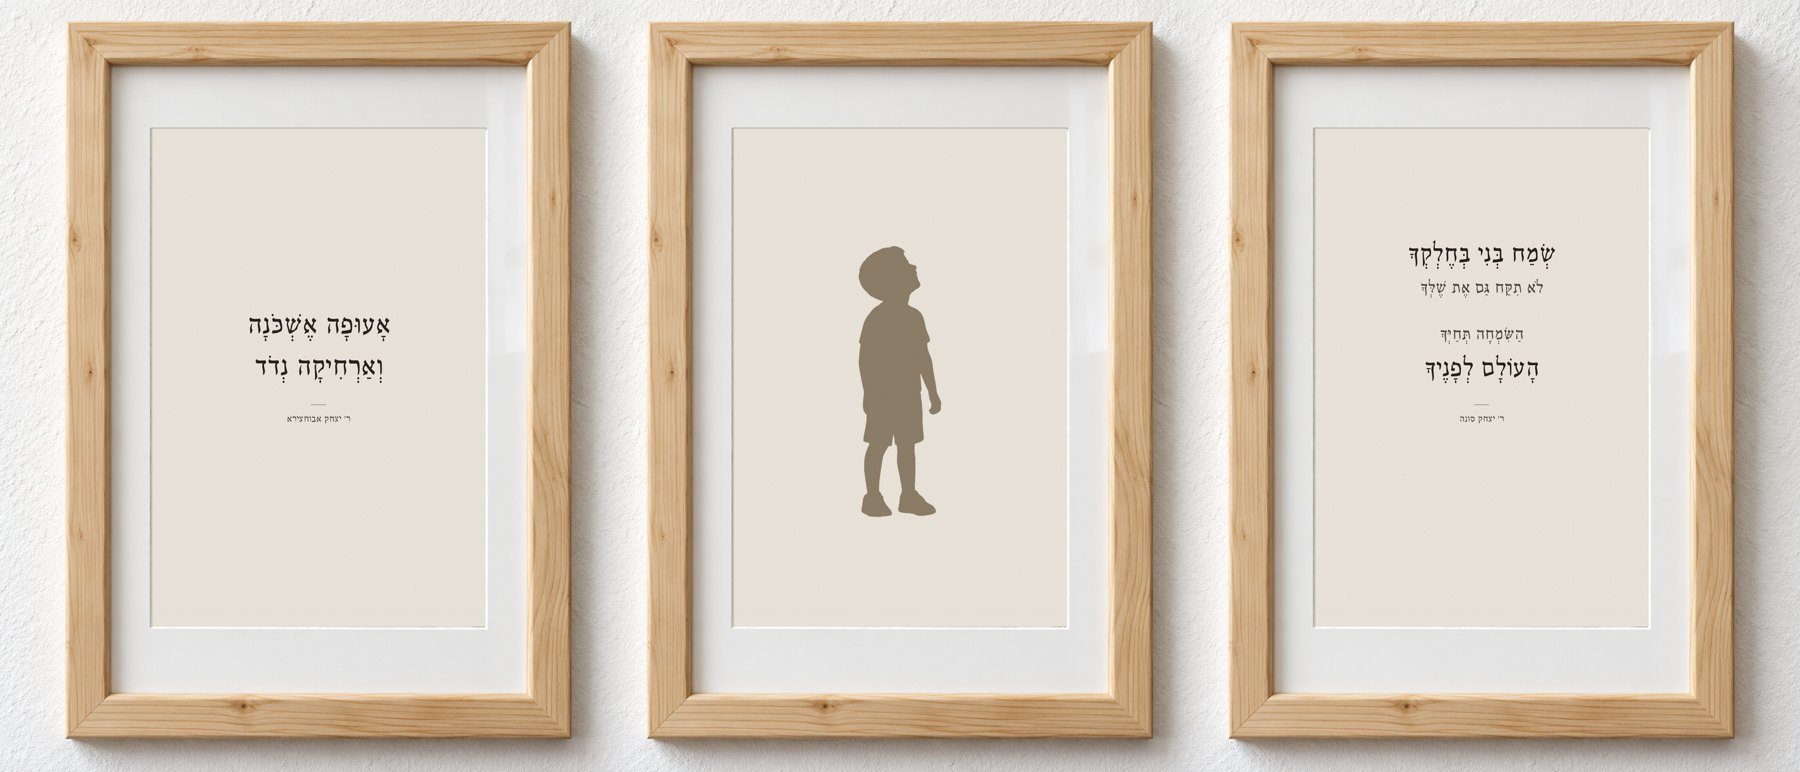
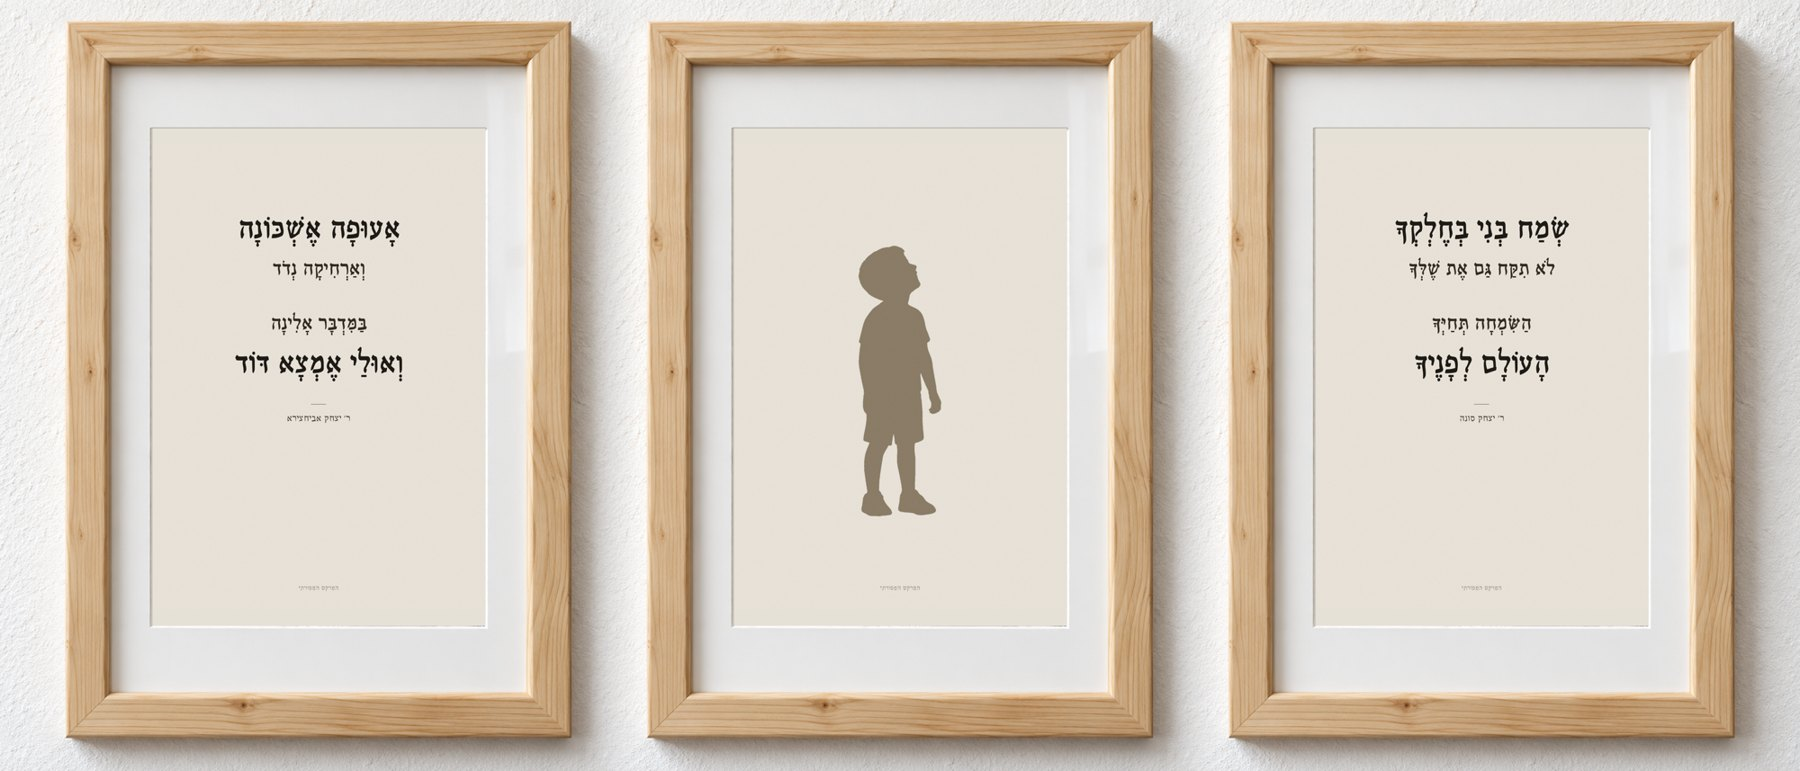
Shop: lead with 2-3 prints, free shipping from 2, full Aoufa stanza, remove black frame
Claude-Session: https://claude.ai/code/session_01QSLAfrMeBEq27mRa4tKpiz

diff --git a/shop/index.html b/shop/index.html
@@ -56,8 +56,11 @@ nav a:hover{color:var(--ink)}
 
 /* מבצע */
 .deal{background:var(--wall);border-block:1px solid var(--line)}
-.deal .wrap{display:flex;flex-wrap:wrap;gap:12px 40px;justify-content:center;padding-block:18px;font-size:16px}
-.deal b{font-family:var(--display);font-size:22px;font-weight:500;margin-inline-start:6px}
+.deal .wrap{display:grid;grid-template-columns:repeat(3,1fr);gap:12px;padding-block:18px 10px;font-size:15px;max-width:640px;margin-inline:auto}
+.deal .all{text-align:center;font-size:13px;opacity:.75;padding-bottom:16px}
+.deal .d{display:flex;flex-direction:column;align-items:center;gap:2px;text-align:center}
+.deal b{font-family:var(--display);font-size:24px;font-weight:500}
+.deal .ds{font-size:13px;opacity:.75}
 
 /* גלריה */
 .sec{padding-block:64px}
@@ -177,6 +180,7 @@ footer .wrap{display:flex;justify-content:space-between;gap:16px;flex-wrap:wrap}
   .brand{font-size:22px}
 }
 @media (prefers-reduced-motion:reduce){.item img{transition:none}}
+.pairhint{margin:12px 0 0;font-size:15px;opacity:.8}.pairhint a{color:inherit;font-weight:700}
 </style>
 </head>
 <body>
@@ -195,7 +199,7 @@ footer .wrap{display:flex;justify-content:space-between;gap:16px;flex-wrap:wrap}
 
 <footer><div class="wrap">
   <span>המרקט המסורתי · מילים שגדלנו עליהן · מבית זרמומיה</span>
-  <span>משלוח עם שליח עד הבית · תשלום מאובטח בפיימי</span>
+  <span>משלוח חינם מ־2 תמונות · תשלום מאובטח בפיימי</span>
 </div></footer>
 
 <script>
@@ -203,24 +207,23 @@ const PRICE_FRAMED=150, PAIR=279, TRIPLE=399, POSTER=39, SHIP=39; // מחיר פ
 const COLORS=[
   {id:'natural',name:'עץ טבעי',hex:'#C9A878'},
   {id:'white',name:'לבן',hex:'#F4F1EA'},
-  {id:'honey',name:'דבש',hex:'#A8723A'},
-  {id:'black',name:'שחור',hex:'#1E1C1A'}
+  {id:'honey',name:'חום כהה',hex:'#7A5434'}
 ];
 const P=[
-  {id:'p1',l:'א',name:'אָעוּפָה אֶשְׁכֹּנָה',plain:'אעופה אשכונה',sub:'עם להקת הציפורים',by:'מתוך פיוט של ר׳ יצחק אבוחצירא',
+  {id:'p1',l:'א',name:'אָעוּפָה אֶשְׁכּוֹנָה',plain:'אעופה אשכונה',sub:'עם להקת הציפורים',by:'מתוך פיוט של ר׳ יצחק אביחצירא',
    text:'שורה מתוך הפיוט, עם להקת ציפורים שעולה אל הכותרת. הדפס בגווני נייר חמים שמתאים לסלון, למסדרון ולחדר עבודה.'},
-  {id:'p2',l:'ב',name:'אָעוּפָה אֶשְׁכֹּנָה',plain:'אעופה אשכונה · מינימליסטי',sub:'גרסה מינימליסטית',by:'מתוך פיוט של ר׳ יצחק אבוחצירא',
+  {id:'p2',l:'ב',name:'אָעוּפָה אֶשְׁכּוֹנָה',plain:'אעופה אשכונה · מינימליסטי',sub:'גרסה מינימליסטית',by:'מתוך פיוט של ר׳ יצחק אביחצירא',
    text:'אותה שורה בלי איור. טיפוגרפיה בכתר, הרבה אוויר סביב. משתלב יפה בזוג עם הגרסה עם הציפורים.'},
   {id:'p3',l:'ג',name:'שְׂמַח בְּנִי בְּחֶלְקְךָ',plain:'שמח בני בחלקך',sub:'ר׳ יצחק סונה',by:'מילים: ר׳ יצחק סונה',
    text:'חמש שורות על שמחה בחלק ועל העולם שפתוח לפניך. מתנה טובה לבר מצווה, לחדר של ילד או לבית חדש.'},
-  {id:'p4',l:'ד',name:'חֲשׂוֹף זְרוֹעֲךָ',plain:'חשוף זרועך',sub:'לקבץ פזורים · מפת ישראל',by:'מתוך פיוט של ר׳ יצחק אבוחצירא',
+  {id:'p4',l:'ד',name:'חֲשׂוֹף זְרוֹעֲךָ',plain:'חשוף זרועך',sub:'לקבץ פזורים · מפת ישראל',by:'מתוך פיוט של ר׳ יצחק אביחצירא',
    text:'שורות על קיבוץ הפזורים, על רקע מפה עדינה של הארץ. מתאים לבית שהגיע אליו מכל מקום.'},
   {id:'p5',l:'ה',name:'הָעוֹלָם לְפָנֶיךָ',plain:'העולם לפניך',sub:'צללית ילד מביט למעלה',by:'מילים: ר׳ יצחק סונה',
    text:'ילד מרים את הראש אל המילים מתוך "שמח בני". מתנה לבר מצווה, לחדר ילדים או לכל מי שמתחיל דרך.',s:'joy'},
   {id:'p6',l:'ו',name:'בּוֹאִי כַלָּה',plain:'בואי כלה',sub:'לכלה · מתוך לכה דודי',by:'ר׳ שלמה הלוי אלקבץ',
    text:'"בואי כלה, בואי כלה", ומתחת "בואי בשלום עטרת בעלה". הפיוט ששרים כל ליל שבת, לכלה ביום שלה. בזוג עם ישמח חתני.',s:'joy',def:'white'},
   {id:'p7',l:'ז',name:'יִשְׂמַח חֲתָנִי',plain:'ישמח חתני',sub:'לחתן ולבר מצווה',by:'פיוט עממי',
-   text:'"ישמח חתני בקהל אמוני, ישא ברכה מאת ה׳". שרים אותו לחתן מתחת לחופה ולנער בבר המצווה. בזוג עם בואי כלה.',s:'joy',def:'black'}
+   text:'"ישמח חתני בקהל אמוני, ישא ברכה מאת ה׳". שרים אותו לחתן מתחת לחופה ולנער בבר המצווה. בזוג עם בואי כלה.',s:'joy',def:'honey'}
 ];
 const img=(id,c)=>`img/${id}-${c}.jpg`;
 // צבע + צבע
@@ -242,7 +245,7 @@ function totals(){
   const nP=cart.filter(x=>x.kind==='poster').reduce((a,b)=>a+b.q,0);
   const sets=cart.filter(x=>x.kind==='set'||x.kind==='trip'), setSum=sets.reduce((a,b)=>a+(b.kind==='trip'?TRIPLE:SET_PRICE[b.size])*b.q,0);
   const full=nF*PRICE_FRAMED+nP*POSTER+setSum, fr=framedTotal(nF);
-  const ship=(nF>0||sets.length)?SHIP:0, sub=fr+nP*POSTER+setSum;
+  const ship=(nF===1&&!sets.length)?SHIP:0, sub=fr+nP*POSTER+setSum; // משלוח חינם מ־2 תמונות או בסט
   return {nF,nP,full,save:nF*PRICE_FRAMED-fr,sub,ship,total:sub+ship};
 }
 function toast(t){const d=document.createElement('div');d.className='toast';d.textContent=t;d.setAttribute('role','status');document.body.appendChild(d);setTimeout(()=>d.remove(),2200)}
@@ -255,16 +258,16 @@ function shop(){
     <div>
       <h1>פיוטים ושירים של הבית, ממוסגרים לקיר</h1>
       <p>שורות מהפיוטים והשירים שליוו את הבתים שלנו, בעיצוב נקי ובאות עברית מסורתית. כל הדפס מגיע ממוסגר עם פספרטו, מוכן לתלייה.</p>
-      <a class="cta" href="#prints">לכל ההדפסים</a>
-      <div class="facts"><span>מסגרת 20×30 ס״מ</span><span>הדפס 15×21 בפספרטו</span><span>שליח עד הבית</span></div>
+      <a class="cta" href="#prints">בוחרים 2 או 3 הדפסים</a>
+      <div class="facts"><span>זכוכית ופספרטו</span><span>מסגרת 20×30 ס״מ</span><span>משלוח חינם מ־2 תמונות</span></div>
     </div>
     <a href="#trip"><img src="img/trip.jpg" alt="טריפטיך ממוסגר: אעופה אשכונה, צללית ילד ושמח בני" style="aspect-ratio:auto"></a>
   </section>
   <div class="deal"><div class="wrap">
-    <span>הדפס ממוסגר <b>${nis(PRICE_FRAMED)}</b></span>
-    <span>זוג <b>${nis(PAIR)}</b></span>
-    <span>שלישייה <b>${nis(TRIPLE)}</b></span>
-  </div></div>
+    <div class="d"><span class="dn">הדפס 1</span><b>${nis(PRICE_FRAMED)}</b><span class="ds">ועוד משלוח</span></div>
+    <div class="d"><span class="dn">2 הדפסים</span><b>${nis(PAIR)}</b><span class="ds">משלוח חינם</span></div>
+    <div class="d"><span class="dn">3 הדפסים</span><b>${nis(TRIPLE)}</b><span class="ds">משלוח חינם</span></div>
+  </div><div class="all">משלבים כל הדפס שרוצים, בכל צבע מסגרת</div></div>
   <a class="wrap feature" href="#set">
     <img src="img/set.jpg" alt="שלושה בלוקי עץ: מענטש בצהוב, קיבוץ גלויות בירוק ונעביבשק בכחול">
     <div><div class="k">חדש · סט לזוג</div><h2>צבע + צבע</h2>
@@ -277,7 +280,7 @@ function shop(){
   </section>
   <section class="wrap sec" id="joy" style="padding-top:0">
     <div class="sec-h"><h2>סדרת השמחות</h2><p>חתונה · בר מצווה · זוג ${nis(PAIR)}</p></div>
-    <img src="img/wedding.jpg" alt="בואי כלה במסגרת לבנה וישמח חתני במסגרת שחורה" style="width:100%;display:block;margin-bottom:28px">
+    <img src="img/wedding.jpg" alt="בואי כלה במסגרת לבנה וישמח חתני במסגרת חומה כהה" style="width:100%;display:block;margin-bottom:28px">
     <div class="grid">${P.filter(p=>p.s==='joy').map(card).join('')}</div>
   </section>`;
 }
@@ -286,7 +289,7 @@ const card=p=>`
         <div class="ph"><img loading="lazy" src="${img(p.id,p.def||'natural')}" alt="${p.plain} ממוסגר"></div>
         <h3><span class="letter">${p.l}</span>${p.name}</h3>
         <div class="sub">${p.sub}</div>
-        <div class="pr">ממוסגר ${nis(PRICE_FRAMED)} · פוסטר להדפסה ${nis(POSTER)}</div>
+        <div class="pr">${nis(PRICE_FRAMED)} · כל 2 הדפסים ${nis(PAIR)}</div>
       </a>`;
 
 function product(p){
@@ -315,11 +318,12 @@ function product(p){
         <div class="qty"><button type="button" id="minus" aria-label="פחות">−</button><output id="q">1</output><button type="button" id="plus" aria-label="עוד">+</button></div>
         <button type="button" class="cta add" id="add">הוספה לעגלה</button>
       </div>
+      <p class="pairhint" id="pairhint">כל 2 הדפסים מהחנות, לבחירתך, ב־${nis(PAIR)} עם משלוח חינם. כל 3 ב־${nis(TRIPLE)}. אפשר לשלב הדפסים וצבעי מסגרת שונים.</p>
       <dl class="spec">
+        <div><dt>2 או 3 הדפסים</dt><dd>כל 2 לבחירתך ${nis(PAIR)} · כל 3 ${nis(TRIPLE)}, משלוח חינם</dd></div>
         <div><dt>הדפסה</dt><dd>15×21 ס״מ</dd></div>
-        <div><dt>מסגרת</dt><dd>עץ 20×30 ס״מ, עם פספרטו לבן</dd></div>
-        <div><dt>משלוח</dt><dd>שליח עד הבית, ${nis(SHIP)} להזמנה</dd></div>
-        <div><dt>במארז</dt><dd>זוג ${nis(PAIR)} · שלישייה ${nis(TRIPLE)}, ההנחה מחושבת בעגלה</dd></div>
+        <div><dt>מסגרת</dt><dd>עץ 20×30 ס״מ, עם זכוכית ופספרטו לבן</dd></div>
+        <div><dt>משלוח</dt><dd>שליח עד הבית. חינם מ־2 תמונות, ולתמונה בודדת ${nis(SHIP)}</dd></div>
       </dl>
     </div>
   </section>`;
@@ -339,7 +343,10 @@ function product(p){
     const key=p.id+'|'+kind+'|'+(kind==='framed'?color:'');
     const ex=cart.find(x=>x.key===key);
     if(ex)ex.q+=q;else cart.push({key,id:p.id,kind,color:kind==='framed'?color:null,q});
-    save();toast('נוסף לעגלה');
+    save();
+    const n=totals().nF;
+    toast(n===1?'נוסף לעגלה · עוד הדפס אחד לבחירתך, ושניהם ב־'+nis(PAIR)+' עם משלוח חינם':n===2?'נוסף לעגלה · 2 הדפסים ב־'+nis(PAIR)+', משלוח חינם':'נוסף לעגלה');
+    if(n===1){document.getElementById('pairhint').innerHTML='בחרו עוד הדפס אחד, כל הדפס שתרצו, ושניהם יעלו '+nis(PAIR)+' עם משלוח חינם. <a href="#prints">לבחירת השני</a>';}
   };
   sync();
 }
@@ -351,7 +358,7 @@ function cartView(){
     <div>
       <h1>העגלה</h1>
       ${cart.length?cart.map((x,i)=>{if(x.kind==='trip')return`
-        <div class="line"><img src="img/trip.jpg" alt=""><div><div class="n">טריפטיך אעופה · הילד · שמח בני</div><div class="m">שלוש מסגרות עץ טבעי עם פספרטו · כמות ${x.q}</div></div><div class="r"><span>${nis(TRIPLE*x.q)}</span><button class="rm" type="button" data-i="${i}">הסרה</button></div></div>`;if(x.kind==='set'){const m=mixOf(x.c1,x.c2);return`
+        <div class="line"><img src="img/trip.jpg" alt=""><div><div class="n">טריפטיך אעופה אשכונה · הילד · שמח בני</div><div class="m">שלוש מסגרות עץ טבעי עם פספרטו · כמות ${x.q}</div></div><div class="r"><span>${nis(TRIPLE*x.q)}</span><button class="rm" type="button" data-i="${i}">הסרה</button></div></div>`;if(x.kind==='set'){const m=mixOf(x.c1,x.c2);return`
         <div class="line">
           <img src="img/set.jpg" alt="">
           <div><div class="n">צבע + צבע</div>
@@ -367,10 +374,10 @@ function cartView(){
     </div>
     <aside class="sum" aria-label="סיכום הזמנה">
       <div class="l"><span>מחיר מלא</span><span>${nis(t.full)}</span></div>
-      ${t.save>0?`<div class="l save"><span>הנחת מארז</span><span><bdi dir="ltr">−${nis(t.save)}</bdi></span></div>`:''}
-      <div class="l"><span>משלוח</span><span>${t.ship?nis(t.ship):'—'}</span></div>
+      ${t.save>0?`<div class="l save"><span>הנחה על כמה הדפסים</span><span><bdi dir="ltr">−${nis(t.save)}</bdi></span></div>`:''}
+      <div class="l"><span>משלוח</span><span>${t.ship?nis(t.ship):((t.nF>1||cart.some(x=>x.kind==='set'||x.kind==='trip'))?'חינם':'—')}</span></div>
       <div class="l tot"><span>לתשלום</span><span>${nis(t.total)}</span></div>
-      ${t.nF===1||t.nF===4?`<small>עוד הדפס ממוסגר אחד והזוג עולה ${nis(PAIR)}.</small>`:''}
+      ${t.nF===1&&!t.ship?'':''}${t.nF===1&&t.ship?`<small>עוד הדפס אחד לבחירתך: שניהם ב־${nis(PAIR)} והמשלוח חינם.</small>`:''}${t.nF===4?`<small>עוד הדפס אחד, ושני האחרונים יחושבו ב־${nis(PAIR)}.</small>`:''}
       ${cart.length?`
       <form class="co" id="co" novalidate>
         <div class="f"><label for="fn">שם מלא</label><input id="fn" required autocomplete="name"></div>
@@ -428,7 +435,7 @@ function setView(){
       </div>
       <dl class="spec">
         <div><dt>בסט</dt><dd>שלושה פריטים, מוכנים להעמדה או לתלייה</dd></div>
-        <div><dt>משלוח</dt><dd>שליח עד הבית, ${nis(SHIP)} להזמנה</dd></div>
+        <div><dt>משלוח</dt><dd>שליח עד הבית. חינם מ־2 תמונות, ולתמונה בודדת ${nis(SHIP)}</dd></div>
       </dl>
     </div>
   </section>`;
@@ -467,14 +474,14 @@ function tripView(){
     <div>
       <h1>אָעוּפָה · הַיֶּלֶד · שְׂמַח בְּנִי</h1>
       <div class="by">טריפטיך · שלושה הדפסים ממוסגרים עם פספרטו</div>
-      <p>ילד באמצע מרים את הראש. מצד אחד "אעופה אשכונה וארחיקה נדד" של ר׳ יצחק אבוחצירא, ומהצד השני "שמח בני בחלקך, העולם לפניך" של ר׳ יצחק סונה. שלושתם על אותו רקע קרם, מיושרים לקיר אחד.</p>
+      <p>ילד באמצע מרים את הראש. מצד אחד הבית הראשון של "אעופה אשכונה", עד "ואולי אמצא דוד", של ר׳ יצחק אביחצירא, ומהצד השני "שמח בני בחלקך, העולם לפניך" של ר׳ יצחק סונה. שלושתם על אותו רקע קרם, מיושרים לקיר אחד.</p>
       <div class="row">
         <div class="qty"><button type="button" id="minus" aria-label="פחות">−</button><output id="q">1</output><button type="button" id="plus" aria-label="עוד">+</button></div>
         <button type="button" class="cta add" id="add">הוספה לעגלה · ${nis(TRIPLE)}</button>
       </div>
       <dl class="spec">
         <div><dt>בסט</dt><dd>שלוש מסגרות עץ טבעי 20×30 עם פספרטו, הדפס 15×21 בכל אחת</dd></div>
-        <div><dt>משלוח</dt><dd>שליח עד הבית, ${nis(SHIP)} להזמנה</dd></div>
+        <div><dt>משלוח</dt><dd>שליח עד הבית. חינם מ־2 תמונות, ולתמונה בודדת ${nis(SHIP)}</dd></div>
       </dl>
     </div>
   </section>`;
